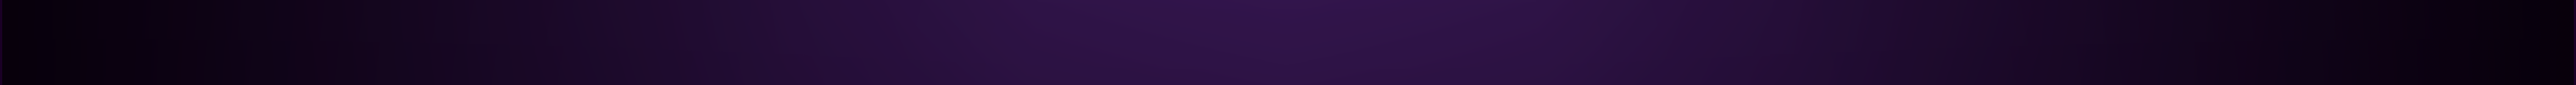
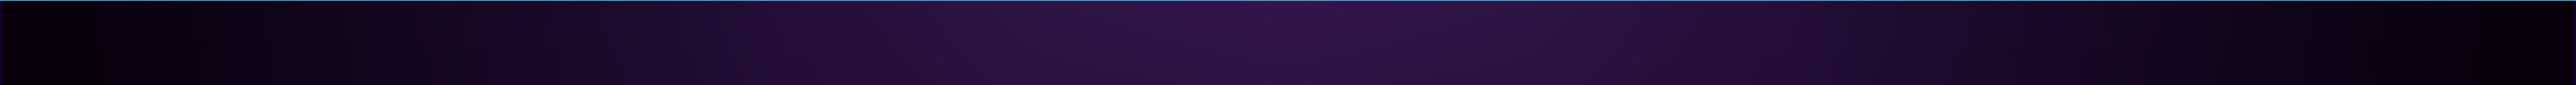
background success

Changed region(s): [[0.0, 0.0, 1.0, 0.0256]]

diff --git a/client/src/App.css b/client/src/App.css
@@ -7,7 +7,7 @@
 
 .bg-img {
   --bs-bg-opacity: 1;
-  background-image: url("/client/public/images/diHeaderImgLongNoText.png");
+  background-image: url("/client/public/images/headerBgnd.png");
   background-repeat: no-repeat;
   background-size: cover;
 }
@@ -36,25 +36,19 @@
 }
 
 .homeLink:hover {
-  color: white;
+  color: #ffffffe5;
   text-shadow: 0 0 20px #6653a4;
 }
 
-.bg-style {
-  background-image: url("/client/public/images/homepage.png");
-  background-repeat: no-repeat;
-  background-size: cover;
-}
-
 .footer-style {
-  background-image: url("/client/public/images/footerbgnd.png");
+  background-image: url("/client/public/images/footerBgnd.png");
   background-repeat: no-repeat;
   background-size: cover;
 }
 
 a.headerbtn {
   background-color: #6653a4;
-  color: rgba(255, 255, 255, 0.897);
+  color: #ffffffe5;
   --bs-btn-hover-border-color: rgb(101, 189, 71);
 }
 
@@ -62,4 +56,11 @@ a.headerbtn:hover {
   color: rgb(101, 189, 71);
   --box-shadow-color: rgb(101, 189, 71);
   box-shadow: 0 0 30px var(--box-shadow-color);
+}
+
+body {
+  color: #ffffffe5;
+  background-image: url("/client/public/images/background.png");
+  background-repeat: no-repeat;
+  background-size: cover;
 }

diff --git a/client/src/App.jsx b/client/src/App.jsx
@@ -39,13 +39,11 @@ function App() {
   return (
     <>
       <ApolloProvider client={client}>
-        <div className='bg-style'>
           <Header />
           <main className="mx-3 p-3">
             <Outlet />
           </main>
           <Footer />
-        </div>
       </ApolloProvider>
     </>
   )
